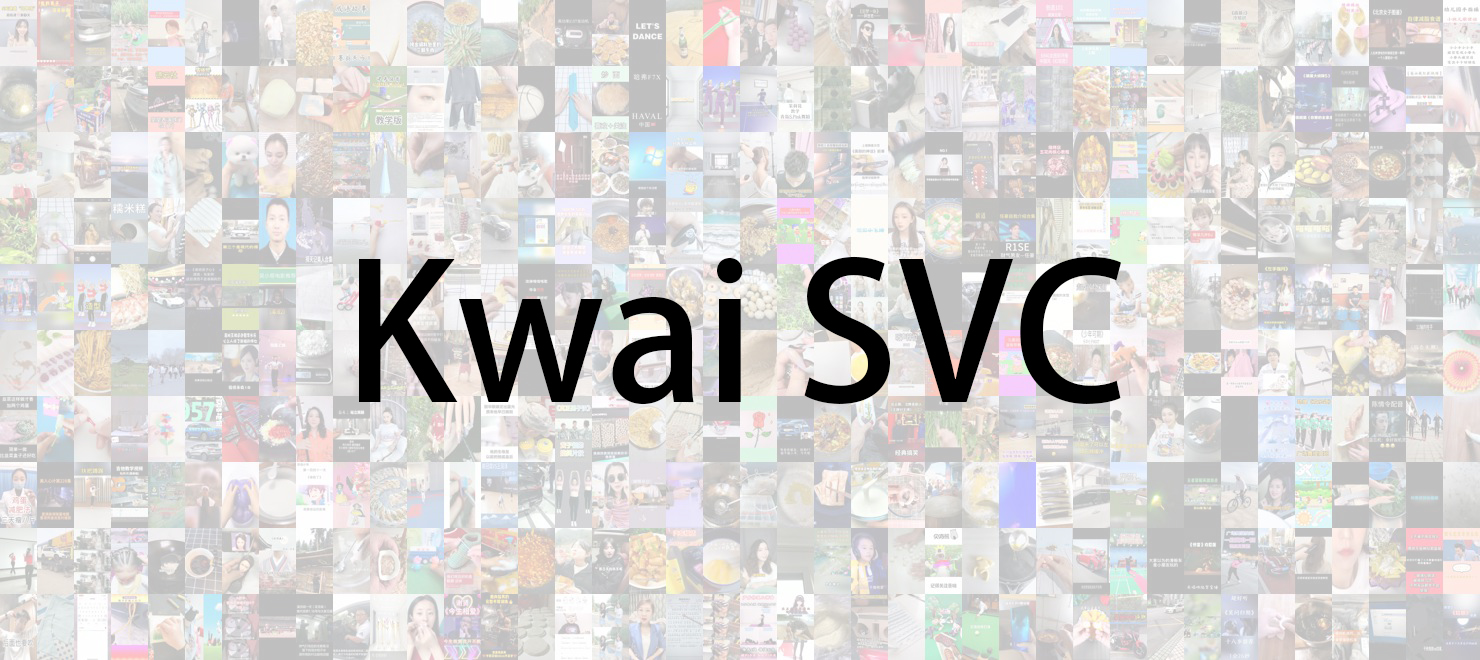
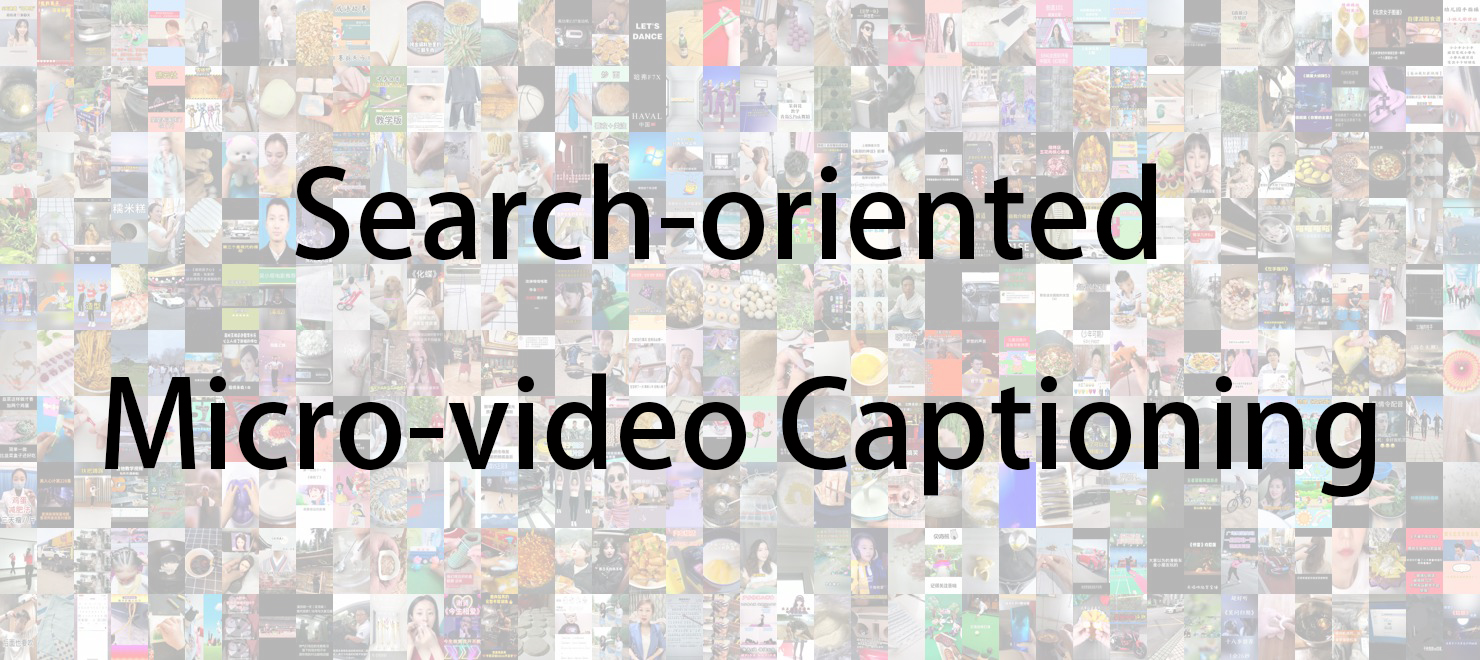
update index.html

Changed region(s): [[0.0622, 0.2424, 0.9324, 0.7576]]

diff --git a/index.html b/index.html
@@ -13,37 +13,62 @@
 <td>
 
 <!-- Title -->
-<center>
+<!-- <center>
 <h1>
 <font face="helvetica" style="font-size:87%">
     Search-oriented Micro-video Captioning
 </font>
 </h1>
-</center>
+</center> -->
 
 <br>
 
 <!-- Figure -->
 <center>
-<img src="./CSAN/figs/kwaiSVC-BG.jpg" height="350">
+<img src="./CSAN/figs/kwaiSVC-BG.jpg" height="400">
+</center>
+
+<!-- Abstract -->
+<center>
+<h2><font face="helvetica" style="font-size:24px">Abstract</font></h2>
+<hr style="margin-top:-10px; margin-bottom:13px">
 </center>
 
 
-<!-- Code&Dataset -->
-<h2><font face="helvetica" style="font-size:24px">Code&Dataset</font></h2>
+<font face="helvetica" style="font-size:15px">
+<div style= "text-indent:25px; text-align:justify">
+    Pioneer efforts have been dedicated to the content-oriented video
+captioning that generates relevant sentences to describe the visual
+contents of a given video from the producer perspective. By contrast,
+this work targets at the search-oriented one that summarizes
+the given video via generating query-like sentences from the consumer
+angle. Beyond relevance, diversity is vital in characterizing
+consumers’ seeking intention from different aspects. Towards this
+end, we devise a large-scale multimodal pre-training network regularized
+by five tasks to strengthen the downstream video representation,
+which is well-trained over our collected 11M micro-videos.
+Thereafter, we present a flow-based diverse captioning model to
+generate different captions from consumers’ search demand. This
+model is optimized via a reconstruction loss and a KL divergence
+between the prior and the posterior. We justify our model over our
+constructed golden dataset comprising 690k &ltquery, micro-video&gt
+pairs and experimental results demonstrate its superiority.
+</div>
+
+<!-- Code -->
+<center>
+<h2><font face="helvetica" style="font-size:24px">Code</font></h2>
 <hr style="margin-top:-10px; margin-bottom:13px">
+</center>
 
 
 <font face="helvetica" style="font-size:15px">
-    
-<div>
-    <h2><font face="helvetica" style="font-size:20px">Code</font></h2>
-    
+<div>    
     <a href="" style="text-decoration: none;">
     <img src="./CSAN/figs/download_button.jpg" height="30px">
     </a>
     <div style="margin-left: 10px; margin-top: 1px; display: inline-block;">
-        <a href="https://pan.baidu.com/s/1S7WBzPlmpYpdQC0t9zhQtw?pwd=v5r4">Baidu Cloud (extraction code: v5r4)</a> 
+        <a href="https://pan.baidu.com/s/1S7WBzPlmpYpdQC0t9zhQtw?pwd=v5r4">Baidu Cloud</a> (password: v5r4) 
         &nbsp
         <a href="https://drive.google.com/drive/folders/1mifiCH-rXedrq3ZdnyMbBO01nlOwT9z1?usp=sharing">Google Drive</a>
         <br>
@@ -53,6 +78,14 @@
 
 <br>
 
+<!-- Dataset -->
+<center>
+<h2><font face="helvetica" style="font-size:24px">Dataset</font></h2>
+<hr style="margin-top:-10px; margin-bottom:13px">
+</center>
+
+
+<font face="helvetica" style="font-size:15px">
 <div>
     <h2><font face="helvetica" style="font-size:20px">KwaiSVC-222k</font></h2>
 
@@ -60,7 +93,7 @@
     <img src="./CSAN/figs/download_button.jpg" height="30px">
     </a>
     <div style="margin-left: 10px; margin-top: 1px; display: inline-block;">
-        <a href="https://pan.baidu.com/s/1v6x14o5K9IuM3A-IS29UoA?pwd=ihc2">Baidu Cloud (extraction code: ihc2)</a> 
+        <a href="https://pan.baidu.com/s/1v6x14o5K9IuM3A-IS29UoA?pwd=ihc2">Baidu Cloud</a> (password: ihc2)
 <!--         &nbsp
         <a href=" ">Google Drive</a> -->
         <br>
@@ -95,3 +128,5 @@
 -->
 
 </tbody></table></body></html>
+
+
